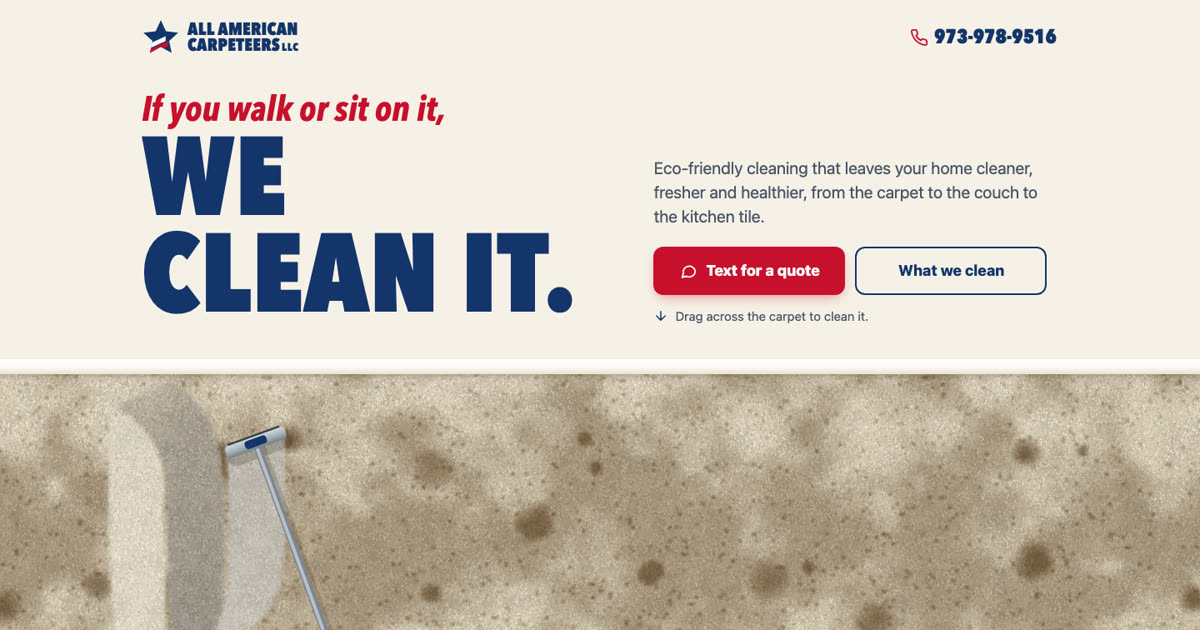
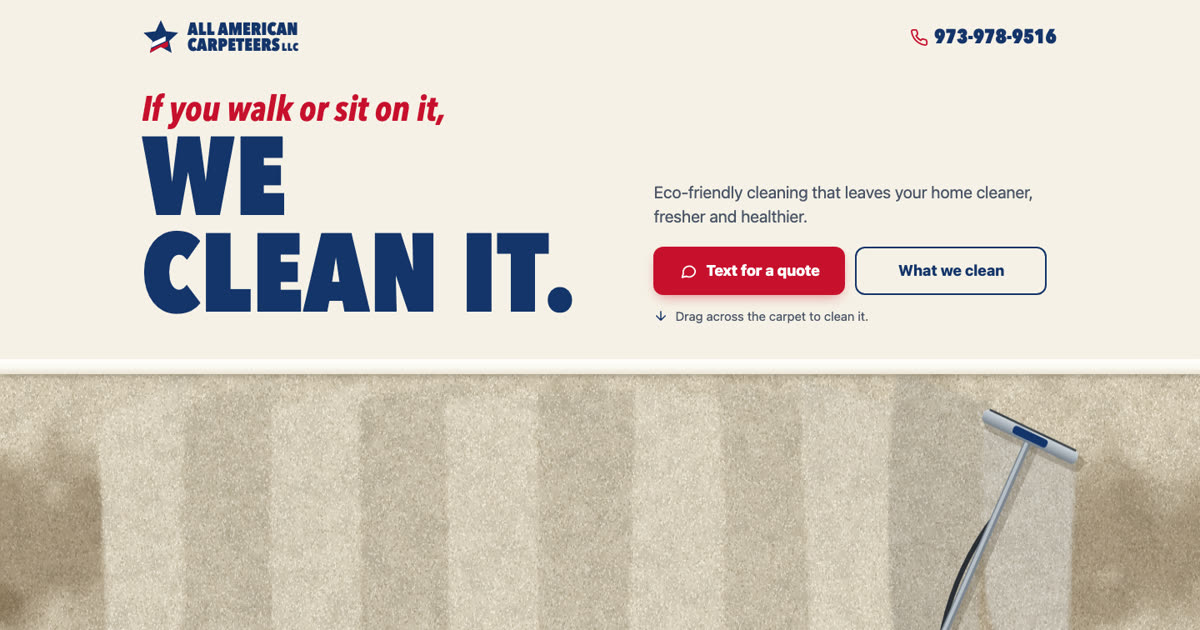
Apply Impeccable review: cleaner carpet, straight wand passes, truer copy
Claude-Session: https://claude.ai/code/session_013q7pYns3tP3PrYTQaHL5pa

diff --git a/index.html b/index.html
@@ -28,8 +28,8 @@
   --ink-soft:#4a5468;
   --base:#fff;
   --focus:#c8102e;
-  --display:"Avenir Next Condensed","Arial Narrow","Roboto Condensed","sans-serif-condensed",system-ui,sans-serif;
-  --body:system-ui,-apple-system,"Segoe UI",Roboto,"Helvetica Neue",Arial,sans-serif;
+  --display:"Avenir Next Condensed","Arial Narrow","sans-serif-condensed",system-ui,sans-serif;
+  --body:system-ui,-apple-system,"Segoe UI","Helvetica Neue",Arial,sans-serif;
   --gutter:20px;
 }
 *{box-sizing:border-box}
@@ -43,7 +43,7 @@ img{max-width:100%;display:block}
 h1,h2,h3{font-family:var(--display);font-stretch:condensed;font-weight:800;text-transform:uppercase;letter-spacing:.005em;line-height:.95;margin:0;text-wrap:balance}
 h2{font-size:clamp(36px,10vw,64px);color:var(--navy)}
 h3{font-size:22px;color:var(--navy)}
-p{margin:0}
+p{margin:0;text-wrap:pretty}
 .icon{width:22px;height:22px;flex:none;fill:none;stroke:currentColor;stroke-width:2;stroke-linecap:round;stroke-linejoin:round}
 
 /* ---------- header ---------- */
@@ -74,18 +74,19 @@ p{margin:0}
 .hint .icon{width:18px;height:18px;color:var(--navy)}
 .hint.gone{opacity:0}
 .baseboard{position:relative;z-index:2;height:18px;background:linear-gradient(#fff 0,#fbf8f2 55%,#e9e2d4 100%);box-shadow:0 5px 7px -2px rgba(60,45,25,.28)}
-.floor{position:relative;height:clamp(270px,46svh,470px);background:#d3c7b1 repeating-linear-gradient(90deg,rgba(255,255,255,.12) 0 70px,rgba(0,0,0,.04) 70px 140px)}
+.floor{position:relative;height:clamp(270px,46svh,470px);background:#d3c7b1}
 .floor canvas{position:absolute;inset:0;width:100%;height:100%;display:block;touch-action:none;user-select:none;-webkit-user-select:none;-webkit-tap-highlight-color:transparent;cursor:none}
 
 /* ---------- runner divider (a bound carpet runner) ---------- */
-.runner{position:relative;height:58px;background:#d3c7b1;border-top:7px solid var(--navy);border-bottom:7px solid var(--navy)}
+.runner{position:relative;height:58px;background:#d3c7b1;border-top:7px solid var(--navy);border-bottom:7px solid var(--navy);box-shadow:0 3px 5px -1px rgba(60,45,25,.3)}
+.runner-bay{background:var(--paper);padding-bottom:44px}
+.nw{white-space:nowrap}
 .runner canvas{position:absolute;inset:0;width:100%;height:100%;display:block;touch-action:pan-y}
 
 /* ---------- sections ---------- */
 section{padding:64px 0}
-.services{background:var(--paper)}
+.services{background:var(--paper);padding-bottom:44px}
 .svc-head{display:flex;flex-direction:column;gap:12px;margin-bottom:28px}
-.svc-head p{color:var(--ink-soft);max-width:34em}
 .groups{display:grid;gap:30px}
 .group h3{padding-bottom:10px;border-bottom:2px solid var(--navy)}
 .rows{list-style:none;margin:0;padding:0}
@@ -113,12 +114,12 @@ section{padding:64px 0}
 .steps{list-style:none;padding:0;margin:30px 0 0;display:grid;gap:26px;counter-reset:s}
 .steps li{display:grid;grid-template-columns:52px 1fr;gap:4px 16px;align-items:start}
 .steps li::before{counter-increment:s;content:counter(s);grid-row:span 2;font-family:var(--display);font-stretch:condensed;font-weight:800;font-size:58px;line-height:.8;color:var(--red)}
-.steps b{font-size:19px;color:var(--navy)}
+.steps b{font-size:19px;color:var(--navy);text-wrap:balance}
 .steps span{color:var(--ink-soft)}
 
 .area{background:var(--paper)}
 .area .place{font-size:clamp(46px,14vw,104px);color:var(--navy);margin-top:6px}
-.area .place em{display:block;font-style:normal;font-size:.42em;color:var(--red);margin-top:8px}
+.area .place em{display:block;font-style:normal;font-size:clamp(22px,6vw,44px);color:var(--red);margin-top:8px}
 .area p{margin-top:18px;color:var(--ink-soft)}
 .area p a{display:inline-block;padding:11px 0;color:var(--navy);font-weight:700;text-underline-offset:3px}
 .area p a:hover{color:var(--red)}
@@ -134,7 +135,7 @@ section{padding:64px 0}
 footer{background:var(--navy-deep);color:#c9d3e8;padding:40px 0 calc(40px + env(safe-area-inset-bottom));font-size:16px}
 footer .wrap{display:grid;gap:22px}
 footer .brand{color:#fff}
-footer .tag{font-size:13px;letter-spacing:.12em;text-transform:uppercase;color:#9fb0d2;margin-top:6px}
+footer .tag{font-size:14px;letter-spacing:.08em;text-transform:uppercase;color:#9fb0d2;margin-top:6px}
 footer ul{list-style:none;margin:0;padding:0;display:grid;gap:4px}
 footer a{color:#fff;text-decoration:none;display:inline-flex;align-items:center;gap:10px;min-height:44px}
 footer a:hover{color:#ffd0d8}
@@ -160,14 +161,21 @@ footer .fine{font-size:14px;color:#8f9fc0}
   .floor{height:clamp(320px,44svh,520px)}
   section{padding:96px 0}
   .svc-head{flex-direction:row;justify-content:space-between;align-items:end}
-  .groups{grid-template-columns:repeat(3,1fr);gap:40px}
+  .groups{display:block;columns:2;column-gap:56px}
+  .group{break-inside:avoid;margin-bottom:34px}
+  .services{padding-bottom:56px}
   .care .wrap{display:grid;grid-template-columns:1.1fr 1fr;gap:64px;align-items:start}
   .care .side{padding-top:8px}
   .points{margin-top:0}
   .how .wrap{display:grid;grid-template-columns:1fr 1.3fr;gap:64px;align-items:start}
   .steps{margin-top:6px}
-  .area .wrap{display:grid;grid-template-columns:1.4fr 1fr;gap:56px;align-items:end}
+  .area .wrap{display:grid;grid-template-columns:1.8fr 1fr;gap:56px;align-items:end}
   footer .wrap{grid-template-columns:1.4fr 1fr 1fr;align-items:start}
+}
+@media (max-width:359px){
+  .tel .icon{display:none}
+  .tel{font-size:17px}
+  .brand svg{width:32px;height:32px}
 }
 @media (prefers-reduced-motion:reduce){
   html{scroll-behavior:auto}
@@ -186,7 +194,7 @@ STORY: who (wordmark + number) -> their own promise "If you walk or sit on it, w
   where -> close -> footer.
 FIRST VIEWPORT: header with phone top-right; slogan as the one focal point; one-line promise; Text for a quote
   (filled) + What we clean (outlined); the carpet with the wand already working below the baseboard.
-FORM: phone-first single column; room composition (wall above, baseboard, floor below) at every width;
+FORM: (concept roll skipped: unattended pitch-site build, world chosen from 6 trade worlds, runner-up in HANDOFF.md) phone-first single column; room composition (wall above, baseboard, floor below) at every width;
   heavy condensed uppercase display, plain sentence-case body; runners between sections as the carried motion.
 -->
 <header class="top">
@@ -204,7 +212,7 @@ FORM: phone-first single column; room composition (wall above, baseboard, floor 
     <div class="wrap hero-copy">
       <h1><span class="slogan-a">If you walk or sit on it,</span><span class="slogan-b">We clean it.</span></h1>
       <div class="hero-side">
-      <p class="promise">Eco-friendly cleaning that leaves your home cleaner, fresher and healthier, from the carpet to the couch to the kitchen tile.</p>
+      <p class="promise">Eco-friendly cleaning that leaves your home cleaner, fresher and healthier.</p>
       <div>
         <div class="actions">
           <a class="btn btn-primary js-sms" data-msg="quote" href="sms:+19739789516"><svg class="icon" viewBox="0 0 24 24" aria-hidden="true"><path d="M21 12a8 8 0 0 1-11.6 7.1L4 20.5l1.4-4.8A8 8 0 1 1 21 12z"/></svg>Text for a quote</a>
@@ -222,57 +230,56 @@ FORM: phone-first single column; room composition (wall above, baseboard, floor 
     <div class="wrap">
       <div class="svc-head">
         <h2>What we clean</h2>
-        <p>Tap anything below to text us about it.</p>
       </div>
       <div class="groups">
         <div class="group">
           <h3>Carpet &amp; fabric</h3>
           <ul class="rows">
-            <li><a class="row js-sms" data-svc="carpet and area rug cleaning" href="sms:+19739789516">Carpet &amp; area rugs<span class="arrow"><svg class="icon" viewBox="0 0 24 24"><path d="M5 12h14M13 6l6 6-6 6"/></svg></span></a></li>
-            <li><a class="row js-sms" data-svc="upholstery cleaning" href="sms:+19739789516"><span>Upholstery<small>Sofas, sectionals, chairs</small></span><span class="arrow"><svg class="icon" viewBox="0 0 24 24"><path d="M5 12h14M13 6l6 6-6 6"/></svg></span></a></li>
-            <li><a class="row js-sms" data-svc="outdoor furniture and cushion cleaning" href="sms:+19739789516">Outdoor furniture &amp; cushions<span class="arrow"><svg class="icon" viewBox="0 0 24 24"><path d="M5 12h14M13 6l6 6-6 6"/></svg></span></a></li>
-            <li><a class="row js-sms" data-svc="baby car seat and stroller cleaning" href="sms:+19739789516">Baby car seats &amp; strollers<span class="arrow"><svg class="icon" viewBox="0 0 24 24"><path d="M5 12h14M13 6l6 6-6 6"/></svg></span></a></li>
-            <li><a class="row js-sms" data-svc="cheerleader/gym mat cleaning" href="sms:+19739789516">Cheer &amp; gym mats<span class="arrow"><svg class="icon" viewBox="0 0 24 24"><path d="M5 12h14M13 6l6 6-6 6"/></svg></span></a></li>
+            <li><a class="row js-sms" data-svc="carpet and area rug cleaning" href="sms:+19739789516">Carpet &amp; area rugs<span class="arrow"><svg class="icon" viewBox="0 0 24 24" aria-hidden="true" focusable="false"><path d="M5 12h14M13 6l6 6-6 6"/></svg></span></a></li>
+            <li><a class="row js-sms" data-svc="upholstery cleaning" href="sms:+19739789516"><span>Upholstery<small>Sofas, sectionals, chairs</small></span><span class="arrow"><svg class="icon" viewBox="0 0 24 24" aria-hidden="true" focusable="false"><path d="M5 12h14M13 6l6 6-6 6"/></svg></span></a></li>
+            <li><a class="row js-sms" data-svc="outdoor furniture and cushion cleaning" href="sms:+19739789516">Outdoor furniture &amp; cushions<span class="arrow"><svg class="icon" viewBox="0 0 24 24" aria-hidden="true" focusable="false"><path d="M5 12h14M13 6l6 6-6 6"/></svg></span></a></li>
+            <li><a class="row js-sms" data-svc="baby car seat and stroller cleaning" href="sms:+19739789516">Baby car seats &amp; strollers<span class="arrow"><svg class="icon" viewBox="0 0 24 24" aria-hidden="true" focusable="false"><path d="M5 12h14M13 6l6 6-6 6"/></svg></span></a></li>
+            <li><a class="row js-sms" data-svc="cheerleader/gym mat cleaning" href="sms:+19739789516">Cheer &amp; gym mats<span class="arrow"><svg class="icon" viewBox="0 0 24 24" aria-hidden="true" focusable="false"><path d="M5 12h14M13 6l6 6-6 6"/></svg></span></a></li>
           </ul>
         </div>
         <div class="group">
           <h3>Hard floors</h3>
           <ul class="rows">
-            <li><a class="row js-sms" data-svc="hardwood floor cleaning" href="sms:+19739789516">Hardwood floor cleaning<span class="arrow"><svg class="icon" viewBox="0 0 24 24"><path d="M5 12h14M13 6l6 6-6 6"/></svg></span></a></li>
-            <li><a class="row js-sms" data-svc="a hardwood screen and recoat" href="sms:+19739789516">Screen &amp; recoat<span class="arrow"><svg class="icon" viewBox="0 0 24 24"><path d="M5 12h14M13 6l6 6-6 6"/></svg></span></a></li>
-            <li><a class="row js-sms" data-svc="hardwood refinishing and custom staining" href="sms:+19739789516">Refinishing &amp; custom staining<span class="arrow"><svg class="icon" viewBox="0 0 24 24"><path d="M5 12h14M13 6l6 6-6 6"/></svg></span></a></li>
-            <li><a class="row js-sms" data-svc="tile and grout cleaning and sealing" href="sms:+19739789516">Tile &amp; grout cleaning &amp; sealing<span class="arrow"><svg class="icon" viewBox="0 0 24 24"><path d="M5 12h14M13 6l6 6-6 6"/></svg></span></a></li>
-            <li><a class="row js-sms" data-svc="basement and garage floor cleaning, sealing and painting" href="sms:+19739789516"><span>Basement &amp; garage floors<small>Cleaning, sealing, painting</small></span><span class="arrow"><svg class="icon" viewBox="0 0 24 24"><path d="M5 12h14M13 6l6 6-6 6"/></svg></span></a></li>
+            <li><a class="row js-sms" data-svc="hardwood floor cleaning" href="sms:+19739789516">Hardwood floor cleaning<span class="arrow"><svg class="icon" viewBox="0 0 24 24" aria-hidden="true" focusable="false"><path d="M5 12h14M13 6l6 6-6 6"/></svg></span></a></li>
+            <li><a class="row js-sms" data-svc="a hardwood screen and recoat" href="sms:+19739789516">Screen &amp; recoat<span class="arrow"><svg class="icon" viewBox="0 0 24 24" aria-hidden="true" focusable="false"><path d="M5 12h14M13 6l6 6-6 6"/></svg></span></a></li>
+            <li><a class="row js-sms" data-svc="hardwood refinishing and custom staining" href="sms:+19739789516">Refinishing &amp; custom staining<span class="arrow"><svg class="icon" viewBox="0 0 24 24" aria-hidden="true" focusable="false"><path d="M5 12h14M13 6l6 6-6 6"/></svg></span></a></li>
+            <li><a class="row js-sms" data-svc="tile and grout cleaning and sealing" href="sms:+19739789516">Tile &amp; grout cleaning &amp; sealing<span class="arrow"><svg class="icon" viewBox="0 0 24 24" aria-hidden="true" focusable="false"><path d="M5 12h14M13 6l6 6-6 6"/></svg></span></a></li>
+            <li><a class="row js-sms" data-svc="basement and garage floor cleaning, sealing and painting" href="sms:+19739789516"><span>Basement &amp; garage floors<small>Cleaning, sealing, painting</small></span><span class="arrow"><svg class="icon" viewBox="0 0 24 24" aria-hidden="true" focusable="false"><path d="M5 12h14M13 6l6 6-6 6"/></svg></span></a></li>
           </ul>
         </div>
         <div class="group">
           <h3>Businesses</h3>
           <ul class="rows">
-            <li><a class="row js-sms" data-svc="commercial cleaning" href="sms:+19739789516">Commercial cleaning<span class="arrow"><svg class="icon" viewBox="0 0 24 24"><path d="M5 12h14M13 6l6 6-6 6"/></svg></span></a></li>
+            <li><a class="row js-sms" data-svc="commercial cleaning" href="sms:+19739789516">Commercial cleaning<span class="arrow"><svg class="icon" viewBox="0 0 24 24" aria-hidden="true" focusable="false"><path d="M5 12h14M13 6l6 6-6 6"/></svg></span></a></li>
           </ul>
         </div>
       </div>
     </div>
   </section>
 
-  <div class="runner" aria-hidden="true"><canvas class="js-runner"></canvas></div>
+  <div class="runner-bay"><div class="runner" aria-hidden="true"><canvas class="js-runner"></canvas></div></div>
 
   <section class="care">
     <div class="wrap">
       <div>
         <h2>We clean your home like it's our own.</h2>
-        <p class="lede">The couch is where your family sits. The rug is where the kids play. We take pride in quality workmanship and dependable service, and we use eco-friendly solutions, so what we leave behind is clean, fresh and safe to live on.</p>
+        <p class="lede">The couch is where your family sits and the rug is where the kids play, so we treat them that way. We take pride in quality workmanship and dependable service.</p>
       </div>
       <div class="side">
         <ul class="points">
           <li><svg viewBox="0 0 64 64" aria-hidden="true"><path d="M32 3l8.6 18.7 20.4 2.3-15.2 13.8 4.3 20.1L32 47.7 13.9 57.9l4.3-20.1L3 24l20.4-2.3z" fill="#c8102e"/></svg>Eco-friendly, organic solutions</li>
           <li><svg viewBox="0 0 64 64" aria-hidden="true"><path d="M32 3l8.6 18.7 20.4 2.3-15.2 13.8 4.3 20.1L32 47.7 13.9 57.9l4.3-20.1L3 24l20.4-2.3z" fill="#c8102e"/></svg>Deep low-moisture cleaning</li>
-          <li><svg viewBox="0 0 64 64" aria-hidden="true"><path d="M32 3l8.6 18.7 20.4 2.3-15.2 13.8 4.3 20.1L32 47.7 13.9 57.9l4.3-20.1L3 24l20.4-2.3z" fill="#c8102e"/></svg>Stains and odors out, not covered up</li>
+          <li><svg viewBox="0 0 64 64" aria-hidden="true"><path d="M32 3l8.6 18.7 20.4 2.3-15.2 13.8 4.3 20.1L32 47.7 13.9 57.9l4.3-20.1L3 24l20.4-2.3z" fill="#c8102e"/></svg>Removes dirt, stains and odors</li>
         </ul>
         <div class="sign">
           <span class="name">Vincent Morea</span>
           <span class="role">Owner / Operator</span>
-          <a class="btn btn-ghost fb" href="https://www.facebook.com/profile.php?id=100004055979808"><svg class="icon" viewBox="0 0 24 24" aria-hidden="true"><path d="M14 8h3V4h-3a4 4 0 0 0-4 4v2H8v4h2v8h4v-8h3l1-4h-4V8.5c0-.3.2-.5.5-.5z"/></svg>Find Vincent on Facebook</a>
+          <a class="btn btn-ghost fb" href="https://www.facebook.com/profile.php?id=100004055979808"><svg class="icon" viewBox="0 0 24 24" aria-hidden="true"><path d="M14 8h3V4h-3a4 4 0 0 0-4 4v2H8v4h2v8h4v-8h3l1-4h-4V8.5c0-.3.2-.5.5-.5z"/></svg>See us on Facebook</a>
         </div>
       </div>
     </div>
@@ -282,9 +289,9 @@ FORM: phone-first single column; room composition (wall above, baseboard, floor 
     <div class="wrap">
       <h2>How it works</h2>
       <ol class="steps">
-        <li><b>Text us what needs cleaning.</b><span>A quick photo and your town help us give you a real quote.</span></li>
-        <li><b>We text back a quote and a time.</b><span>No pressure, no runaround.</span></li>
-        <li><b>We come to you and get it clean.</b><span>Your carpet, couch or floor, done right in your home.</span></li>
+        <li><b>Call or text what needs cleaning.</b><span>A photo and your town help.</span></li>
+        <li><b>Get your quote.</b><span>Straight from Vincent, the owner.</span></li>
+        <li><b>We come to you and clean it.</b><span>Carpet, couch, tile or hardwood, right in your home.</span></li>
       </ol>
     </div>
   </section>
@@ -293,7 +300,7 @@ FORM: phone-first single column; room composition (wall above, baseboard, floor 
 
   <section class="area">
     <div class="wrap">
-      <h2 class="place">Randolph, NJ<em>&amp; surrounding areas</em></h2>
+      <h2 class="place"><span class="nw">Randolph, NJ</span><em>&amp; surrounding areas</em></h2>
       <p>Not sure we come to your town? <a class="js-sms" data-msg="area" href="sms:+19739789516">Text us and ask.</a></p>
     </div>
   </section>
@@ -301,7 +308,6 @@ FORM: phone-first single column; room composition (wall above, baseboard, floor 
   <section class="close">
     <div class="wrap">
       <h2>Let's get it clean.</h2>
-      <p>Text us what needs cleaning and your town, and we'll get back to you with a quote.</p>
       <div class="actions"><a class="btn btn-primary js-sms" data-msg="quote" href="sms:+19739789516"><svg class="icon" viewBox="0 0 24 24" aria-hidden="true"><path d="M21 12a8 8 0 0 1-11.6 7.1L4 20.5l1.4-4.8A8 8 0 1 1 21 12z"/></svg>Text for a quote</a></div>
       <p class="or">or call <a href="tel:+19739789516">973-978-9516</a></p>
     </div>
@@ -349,10 +355,10 @@ FORM: phone-first single column; room composition (wall above, baseboard, floor 
   var CFG = {
     CELL: 4,              // css px per simulation cell
     DPR_MAX: 1.5,
-    WAND_W: 76,           // wand head width, css px (phones scale down a bit)
+    WAND_W: 124,          // widest wand head, css px (about a fifth of the floor on phones)
     AUTO_SPEED: 280,      // px/s of the self-running wand
     IDLE_MS: 2200,        // after the finger leaves, the wand runs itself again
-    REGROW: 0.055,        // per second, soil creeping back once a stripe is dry
+    REGROW: 0.006,        // per second, soil creeping back once a stripe is dry
     DRY_S: 2.6,           // seconds for a wet stripe to dry
     NAP_RELAX: 0.012,     // per second, stripes fade very slowly
     RUNNER_RELAX: 0.07,
@@ -446,7 +452,7 @@ FORM: phone-first single column; room composition (wall above, baseboard, floor 
     this.darkImg = this.dark.getContext('2d').createImageData(gw, gh);
     this.lightImg = this.light.getContext('2d').createImageData(gw, gh);
     for (var i = 0; i < N; i++) { this.lightImg.data[i * 4 + 3] = 255; this.darkImg.data[i * 4 + 3] = 255; }
-    this.wandW = Math.max(56, Math.min(CFG.WAND_W, w / 5));
+    this.wandW = Math.max(64, Math.min(CFG.WAND_W, w / 5.2));
     if (this.o.dirt) this.soil();
     if (this.o.prestripe) this.prestripe();
     if (this.o.wand) { this.head = { x: w * 0.12, y: h + 10 }; this.prev = { x: this.head.x, y: this.head.y }; this.auto = { dir: -1, side: 1 }; this.warm(); }
@@ -457,17 +463,19 @@ FORM: phone-first single column; room composition (wall above, baseboard, floor 
   Carpet.prototype.soil = function () {
     var C = CFG.CELL, nz = makeNoise(this.seed * 13), r = rng(this.seed * 31), w = this.w, h = this.h;
     var stains = [];
-    for (var s = 0; s < Math.max(4, Math.round(w * h / 26000)); s++) stains.push({ x: r() * w, y: h * (0.2 + r() * 0.75), rad: 9 + r() * 22, k: 0.4 + r() * 0.4 });
+    for (var s = 0; s < Math.max(3, Math.round(w * h / 90000)); s++) stains.push({ x: r() * w, y: h * (0.2 + r() * 0.75), rad: 14 + r() * 26, k: 0.2 + r() * 0.22 });
     for (var gy = 0; gy < this.gh; gy++) for (var gx = 0; gx < this.gw; gx++) {
       var x = gx * C, y = gy * C, i = gy * this.gw + gx;
       var lane = Math.exp(-Math.pow((y - h * 0.62) / (h * 0.42), 2));
       var n = nz(x / 70, y / 70);
-      var d = smooth(0.36, 0.78, n * 0.8 + lane * 0.32) * 0.5;
+      var d = smooth(0.36, 0.78, n * 0.55 + lane * 0.5) * 0.5;
       for (var k = 0; k < stains.length; k++) {
-        var st = stains[k], dx = x - st.x, dy = y - st.y, dd = Math.sqrt(dx * dx + dy * dy) / (st.rad * (0.75 + nz(x / 12, y / 12) * 0.6));
+        var st = stains[k], dx = x - st.x, dy = y - st.y, lim = st.rad * 1.4;
+        if (dx > lim || dx < -lim || dy > lim || dy < -lim) continue;
+        var dd = Math.sqrt(dx * dx + dy * dy) / (st.rad * (0.75 + nz(x / 12, y / 12) * 0.6));
         if (dd < 1) d += (1 - dd * dd) * st.k;
       }
-      if (r() < 0.035) d += 0.25 + r() * 0.35;
+      if (r() < 0.01) d += 0.08 + r() * 0.14;
       d = Math.min(1, d);
       this.target[i] = d; this.dirt[i] = d;
     }
@@ -475,7 +483,7 @@ FORM: phone-first single column; room composition (wall above, baseboard, floor 
 
   /* a clean carpet with soft alternating stripes already laid */
   Carpet.prototype.prestripe = function () {
-    var C = CFG.CELL, sw = 66, nz = makeNoise(this.seed * 5);
+    var C = CFG.CELL, sw = Math.max(44, this.w / 7), nz = makeNoise(this.seed * 5);
     for (var gy = 0; gy < this.gh; gy++) for (var gx = 0; gx < this.gw; gx++) {
       var x = gx * C + Math.sin(gy * C / 60) * 6 + (nz(gx / 9, gy / 9) - .5) * 14;
       this.nap[gy * this.gw + gx] = this.napBase[gy * this.gw + gx] = (Math.floor(x / sw) % 2 ? 0.7 : -0.6);
@@ -485,7 +493,9 @@ FORM: phone-first single column; room composition (wall above, baseboard, floor 
   /* run the wand a few strokes before the first paint so stripes are already there */
   Carpet.prototype.warm = function () {
     if (reduce) { for (var k = 0; k < 420; k++) this.step(1 / 60, true); return; }
-    for (var j = 0; j < 190; j++) this.step(1 / 60, true);
+    // lay about 40% of the floor clean before the first paint
+    var n = Math.round(60 * (this.h / CFG.AUTO_SPEED) * Math.ceil(this.w * 0.4 / (this.wandW * 0.86)));
+    for (var j = 0; j < n; j++) this.step(1 / 60, true);
   };
 
   Carpet.prototype.clean = function (ax, ay, bx, by) {
@@ -526,7 +536,7 @@ FORM: phone-first single column; room composition (wall above, baseboard, floor 
       for (var gy = y0; gy <= y1; gy++) for (var gx = x0; gx <= x1; gx++) {
         var dx = gx * C - px, dy = gy * C - py, d = Math.sqrt(dx * dx + dy * dy) / R;
         if (d >= 1) continue;
-        var k = (1 - d * d) * 0.35, i = gy * gw + gx;
+        var k = (1 - d * d) * 0.15, i = gy * gw + gx;
         this.nap[i] += (napT - this.nap[i]) * k;
       }
     }
@@ -536,11 +546,12 @@ FORM: phone-first single column; room composition (wall above, baseboard, floor 
   Carpet.prototype.autoTarget = function (dt) {
     var a = this.auto, h = this.head, W = this.wandW;
     if (a.col == null) a.col = h.x;
+    if (a.lift > 0) { a.lift -= dt; h.x += (a.col - h.x) * Math.min(1, dt * 16); return; }  // wand lifted while it side-steps
     var top = 26, bottom = this.h + 4;
-    h.y += a.dir * CFG.AUTO_SPEED * dt;
+    h.y += a.dir * CFG.AUTO_SPEED * (this.w > 900 ? 1.4 : 1) * dt;
     var wob = Math.sin(this.t * 2.3 + a.col * 0.05) * 5 + Math.sin(this.t * 0.9) * 7;
     if ((a.dir < 0 && h.y <= top) || (a.dir > 0 && h.y >= bottom)) {
-      a.dir *= -1;
+      a.dir *= -1; a.lift = 0.28;
       a.col += a.side * W * 0.86;
       if (a.col > this.w - W * 0.3 || a.col < W * 0.3) { a.side *= -1; a.col += a.side * W * 1.72; }
     }
@@ -562,7 +573,7 @@ FORM: phone-first single column; room composition (wall above, baseboard, floor 
       } else if (silent || reduce === false && now - this.lastPtr > CFG.IDLE_MS) {
         this.autoTarget(dt);
       }
-      this.clean(this.prev.x, this.prev.y, this.head.x, this.head.y);
+      if (!(this.auto.lift > 0)) this.clean(this.prev.x, this.prev.y, this.head.x, this.head.y);
     } else {
       // runner: an unseen hand brushes along it, swaying; the visitor's finger or mouse brushes too
       var p = this.bp || (this.bp = { x: -40, y: this.h / 2, px: -40, py: this.h / 2, v: 1 });
@@ -586,17 +597,17 @@ FORM: phone-first single column; room composition (wall above, baseboard, floor 
   };
 
   Carpet.prototype.draw = function () {
-    var N = this.gw * this.gh, dk = this.darkImg.data, lt = this.lightImg.data;
+    var N = this.gw * this.gh, dk = this.darkImg.data, lt = this.lightImg.data, NK = this.o.napK || 0.07, LK = this.o.napK ? 70 : 40;
     for (var i = 0; i < N; i++) {
       var d = this.dirt[i], w = this.wet[i], n = this.nap[i], p = i * 4;
       // multiply layer: soil (warm brown), wet (cool shade), pile laid away from you (shadow)
       var nd = n < 0 ? -n : 0;
-      var fr = (1 - d * 0.44) * (1 - w * 0.2) * (1 - nd * 0.2);
-      var fg = (1 - d * 0.52) * (1 - w * 0.19) * (1 - nd * 0.2);
-      var fb = (1 - d * 0.62) * (1 - w * 0.15) * (1 - nd * 0.19);
+      var fr = (1 - d * 0.44) * (1 - w * 0.12) * (1 - nd * NK);
+      var fg = (1 - d * 0.52) * (1 - w * 0.11) * (1 - nd * NK);
+      var fb = (1 - d * 0.62) * (1 - w * 0.08) * (1 - nd * NK);
       dk[p] = fr * 255; dk[p + 1] = fg * 255; dk[p + 2] = fb * 255;
       // screen layer: pile laid toward you catches the light
-      var l = n > 0 ? n * 70 * (1 - d * 0.6) : 0;
+      var l = n > 0 ? n * LK * (1 - d * 0.6) : 0;
       lt[p] = lt[p + 1] = lt[p + 2] = l;
     }
     this.dark.getContext('2d').putImageData(this.darkImg, 0, 0);
@@ -626,6 +637,10 @@ FORM: phone-first single column; room composition (wall above, baseboard, floor 
     x.lineCap = 'round';
     x.strokeStyle = 'rgba(60,44,24,.2)'; x.lineWidth = 12;
     x.beginPath(); x.moveTo(h.x + 6, h.y + 8); x.lineTo(ox + 6, oy); x.stroke();
+    // hose, trailing off to the machine
+    x.strokeStyle = '#2a2e35'; x.lineWidth = 6;
+    x.beginPath(); x.moveTo(h.x + (ox - h.x) * .18, h.y + (oy - h.y) * .18);
+    x.bezierCurveTo(ox + 60, h.y + (oy - h.y) * .5, ox + 140, oy - 40, ox + 180, oy); x.stroke();
     // shaft
     x.strokeStyle = '#7d8691'; x.lineWidth = 9;
     x.beginPath(); x.moveTo(h.x, h.y); x.lineTo(ox, oy); x.stroke();
@@ -677,10 +692,16 @@ FORM: phone-first single column; room composition (wall above, baseboard, floor 
       floor.addEventListener('pointermove', function () { if (hero.ptr) requestAnimationFrame(tick); });
     }
   }
-  document.querySelectorAll('.js-runner').forEach(function (cv, k) { add(cv, { prestripe: true, seed: 23 + k * 7 }); });
+  // runners after the hero, when the browser is idle
+  (window.requestIdleCallback || setTimeout)(function () {
+    document.querySelectorAll('.js-runner').forEach(function (cv, k) { add(cv, { prestripe: true, napK: 0.16, seed: 23 + k * 7 }); });
+    wake();
+  });
 
+  var rt;
   window.addEventListener('resize', function () {
-    carpets.forEach(function (c) { if (c.resize()) c.draw(); });
+    clearTimeout(rt);
+    rt = setTimeout(function () { carpets.forEach(function (c) { if (c.resize()) c.draw(); }); }, 150);
   });
   wake();
 })();
